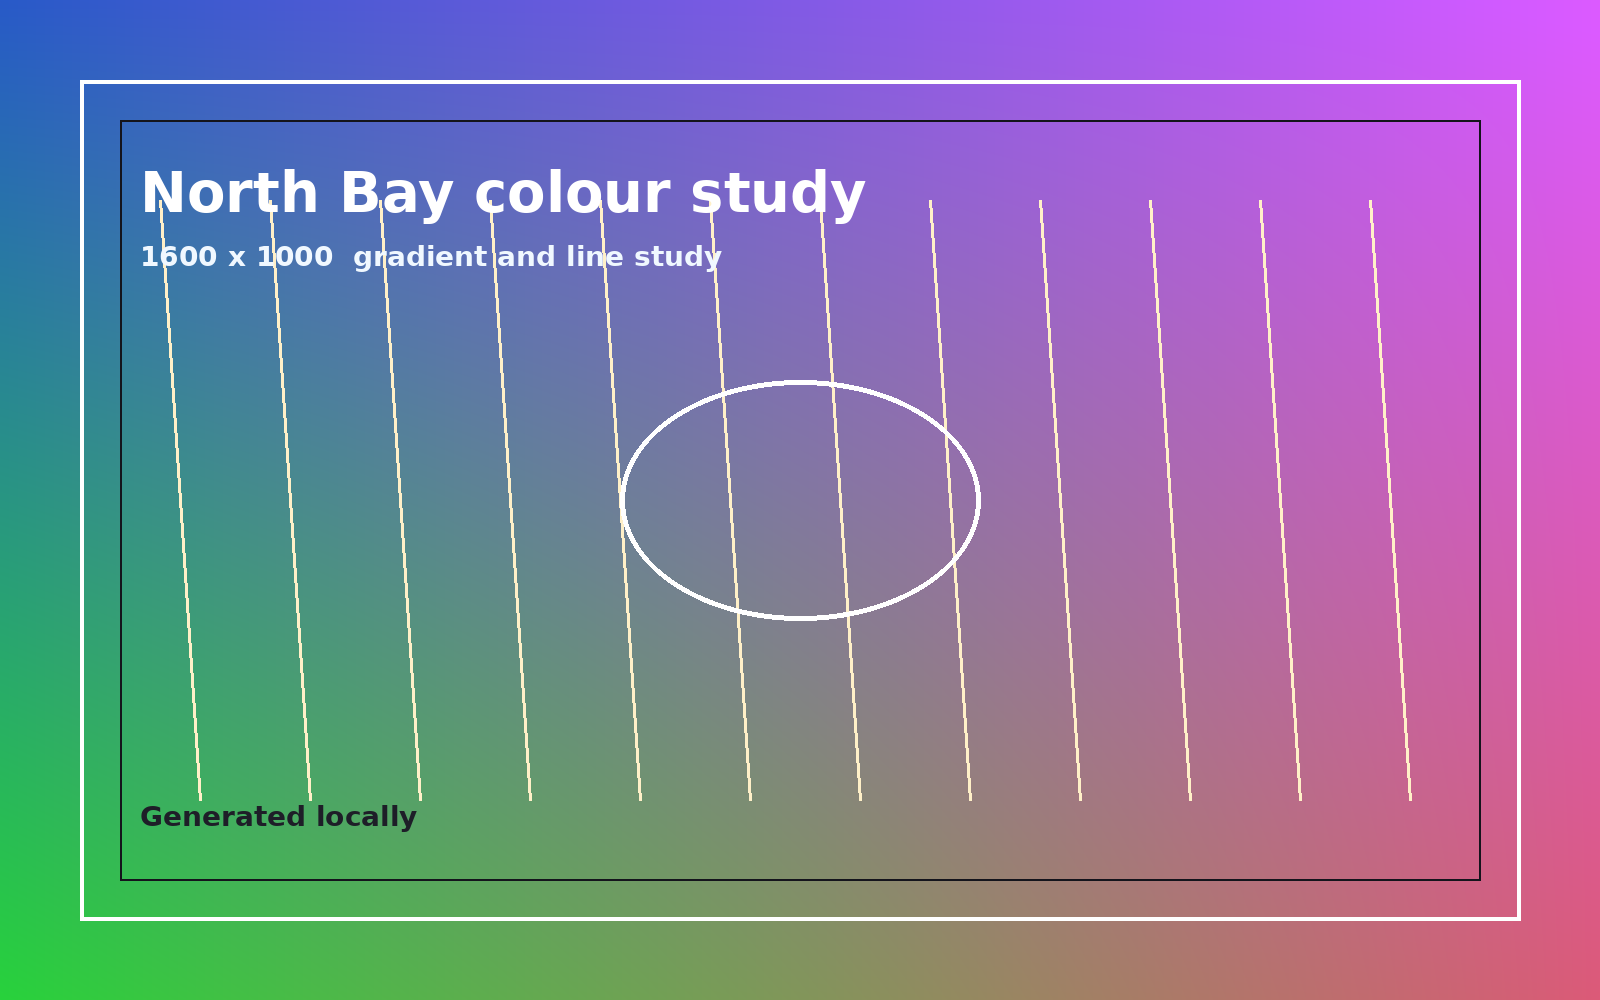
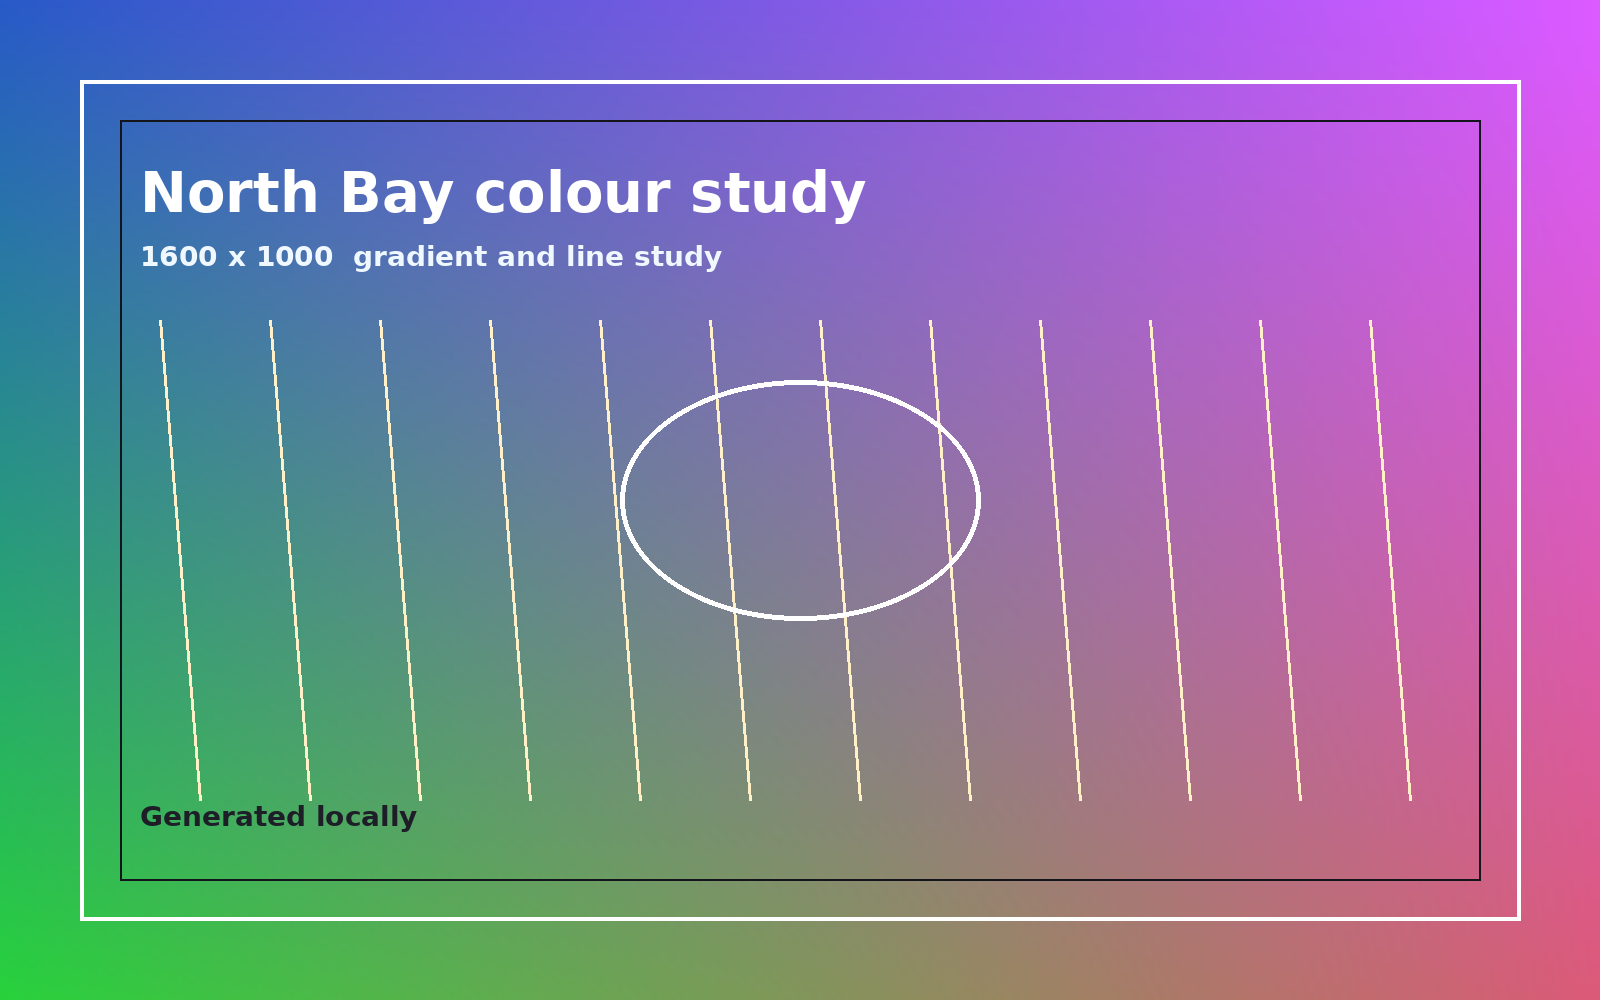
Fix theme QA contrast and layout failures

diff --git a/crates/unibrowser-desktop/src/styles.css b/crates/unibrowser-desktop/src/styles.css
@@ -1797,6 +1797,19 @@ body.toolbar-window-mode .floating-bar.docked {
   color: #ddd;
 }
 
+[data-high-contrast="true"] .files-places h3,
+[data-high-contrast="true"] .files-places-section,
+[data-high-contrast="true"] .files-search-label,
+[data-high-contrast="true"] .files-toolbar label,
+[data-high-contrast="true"] .files-table th,
+[data-high-contrast="true"] .files-sort-btn,
+[data-high-contrast="true"] .files-meta,
+[data-high-contrast="true"] .files-side-note,
+[data-high-contrast="true"] .files-props-dl dt,
+[data-high-contrast="true"] .files-props-dl dd {
+  color: var(--ub-text-1);
+}
+
 [data-theme="light"] .files-props-dl dd {
   color: #333;
 }
@@ -3441,6 +3454,12 @@ body.content-fullscreen::after {
   color: #252a30;
 }
 
+.pdf-annotations-dock input::placeholder,
+.pdf-annotations-dock textarea::placeholder {
+  color: #4b5052;
+  opacity: 1;
+}
+
 .docx-reader {
   display: flex;
   justify-content: center;
@@ -3747,6 +3766,13 @@ body.content-fullscreen::after {
 
 .svg-inspector input:disabled,
 .svg-inspector button:disabled {
+  color: var(--ub-text-2);
+  opacity: 1;
+}
+
+.svg-inspector .muted,
+.svg-inspector-status,
+.svg-inspector input::placeholder {
   color: var(--ub-text-2);
   opacity: 1;
 }
@@ -5331,20 +5357,26 @@ mark.docx-search-hit--current {
 }
 
 .settings-developer-callout {
+  display: grid;
+  grid-template-columns: minmax(0, 1fr) auto;
+  align-items: center;
+  column-gap: 1rem;
   margin-top: 1rem;
-  padding: 0.85rem 1rem;
-  border-radius: 6px;
-  background: var(--ub-surface-subtle, #eceff3);
-  border: 1px solid var(--ub-border, #c9cfd7);
+  padding: 0.85rem 0;
+  border: 0;
+  border-radius: 0;
+  background: transparent;
   color: var(--ub-text-1, #e9edef);
 }
 
 .settings-developer-callout h3 {
+  grid-column: 1;
   margin: 0 0 0.35rem;
   font-size: 0.95rem;
 }
 
 .settings-developer-callout p {
+  grid-column: 1;
   margin: 0 0 0.65rem;
   font-size: 0.8125rem;
   line-height: 1.45;
@@ -5353,7 +5385,7 @@ mark.docx-search-hit--current {
 
 [data-theme="light"] .settings-developer-callout {
   color: #252a30;
-  background: #eceff3;
+  background: transparent;
 }
 
 [data-theme="light"] .settings-developer-callout p {
@@ -5361,8 +5393,8 @@ mark.docx-search-hit--current {
 }
 
 [data-high-contrast="true"] .settings-developer-callout {
-  border-color: var(--ub-text-1);
-  background: var(--ub-panel);
+  border: 0;
+  background: transparent;
   color: var(--ub-text-1);
 }
 
@@ -5371,6 +5403,8 @@ mark.docx-search-hit--current {
 }
 
 .settings-developer-callout-link {
+  grid-column: 2;
+  grid-row: 1 / span 2;
   border: 0;
   background: transparent;
   padding: 0;

diff --git a/crates/unibrowser-desktop/src/ui/quietUtilityShell.css b/crates/unibrowser-desktop/src/ui/quietUtilityShell.css
@@ -496,10 +496,10 @@ body {
   color: var(--ub-text-1);
 }
 
-[data-high-contrast="true"] .ai-assistant-composer-send:disabled {
+[data-high-contrast="true"] .ai-assistant-composer .ai-assistant-composer-send:disabled {
   border-color: var(--ub-text-1);
-  background: var(--ub-control);
-  color: var(--ub-text-1);
+  background: var(--ub-control) !important;
+  color: var(--ub-text-1) !important;
   opacity: 1;
 }
 

diff --git a/scripts/gen-sample-image.py b/scripts/gen-sample-image.py
@@ -39,7 +39,7 @@ def main() -> None:
     draw.rectangle((120, 120, WIDTH - 120, HEIGHT - 120), outline=(20, 20, 28), width=2)
     for i in range(12):
         x0 = 160 + i * 110
-        draw.line((x0, 200, x0 + 40, HEIGHT - 200), fill=(255, 240, 200), width=3)
+        draw.line((x0, 320, x0 + 40, HEIGHT - 200), fill=(255, 240, 200), width=3)
     draw.ellipse((WIDTH // 2 - 180, HEIGHT // 2 - 120, WIDTH // 2 + 180, HEIGHT // 2 + 120), outline=(255, 255, 255), width=5)
     title_font = _font(56)
     sub_font = _font(28)
